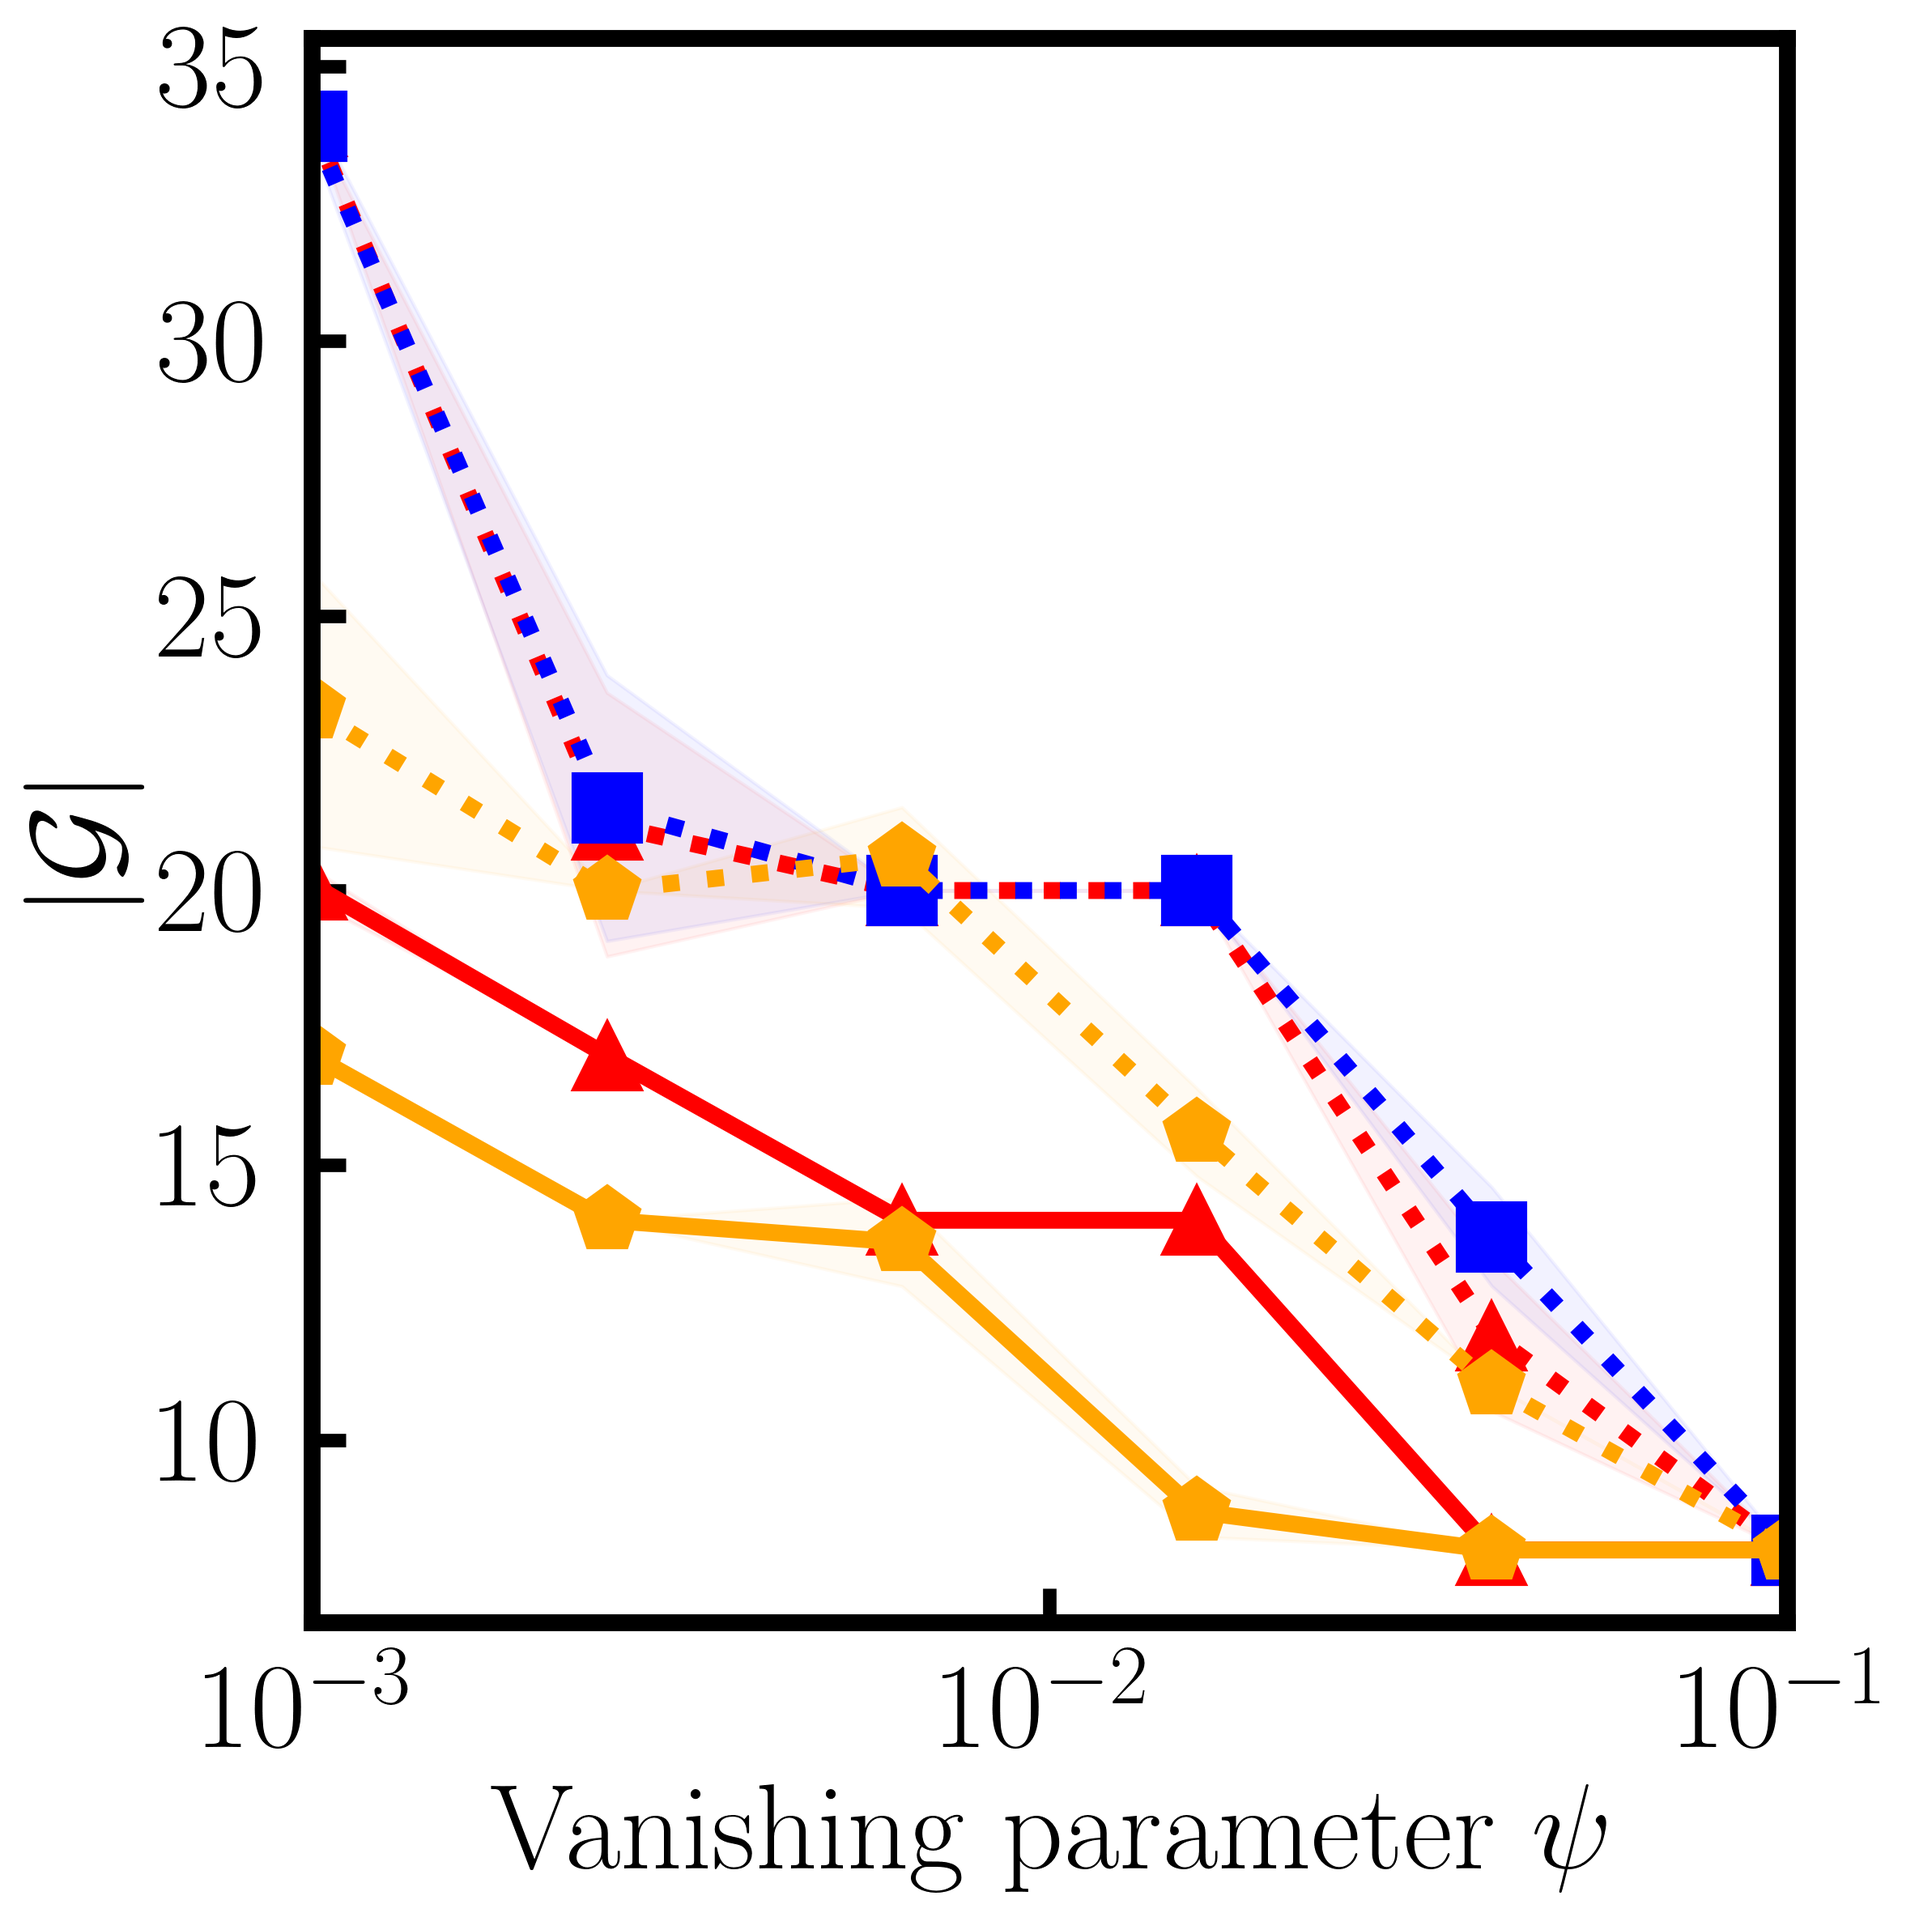
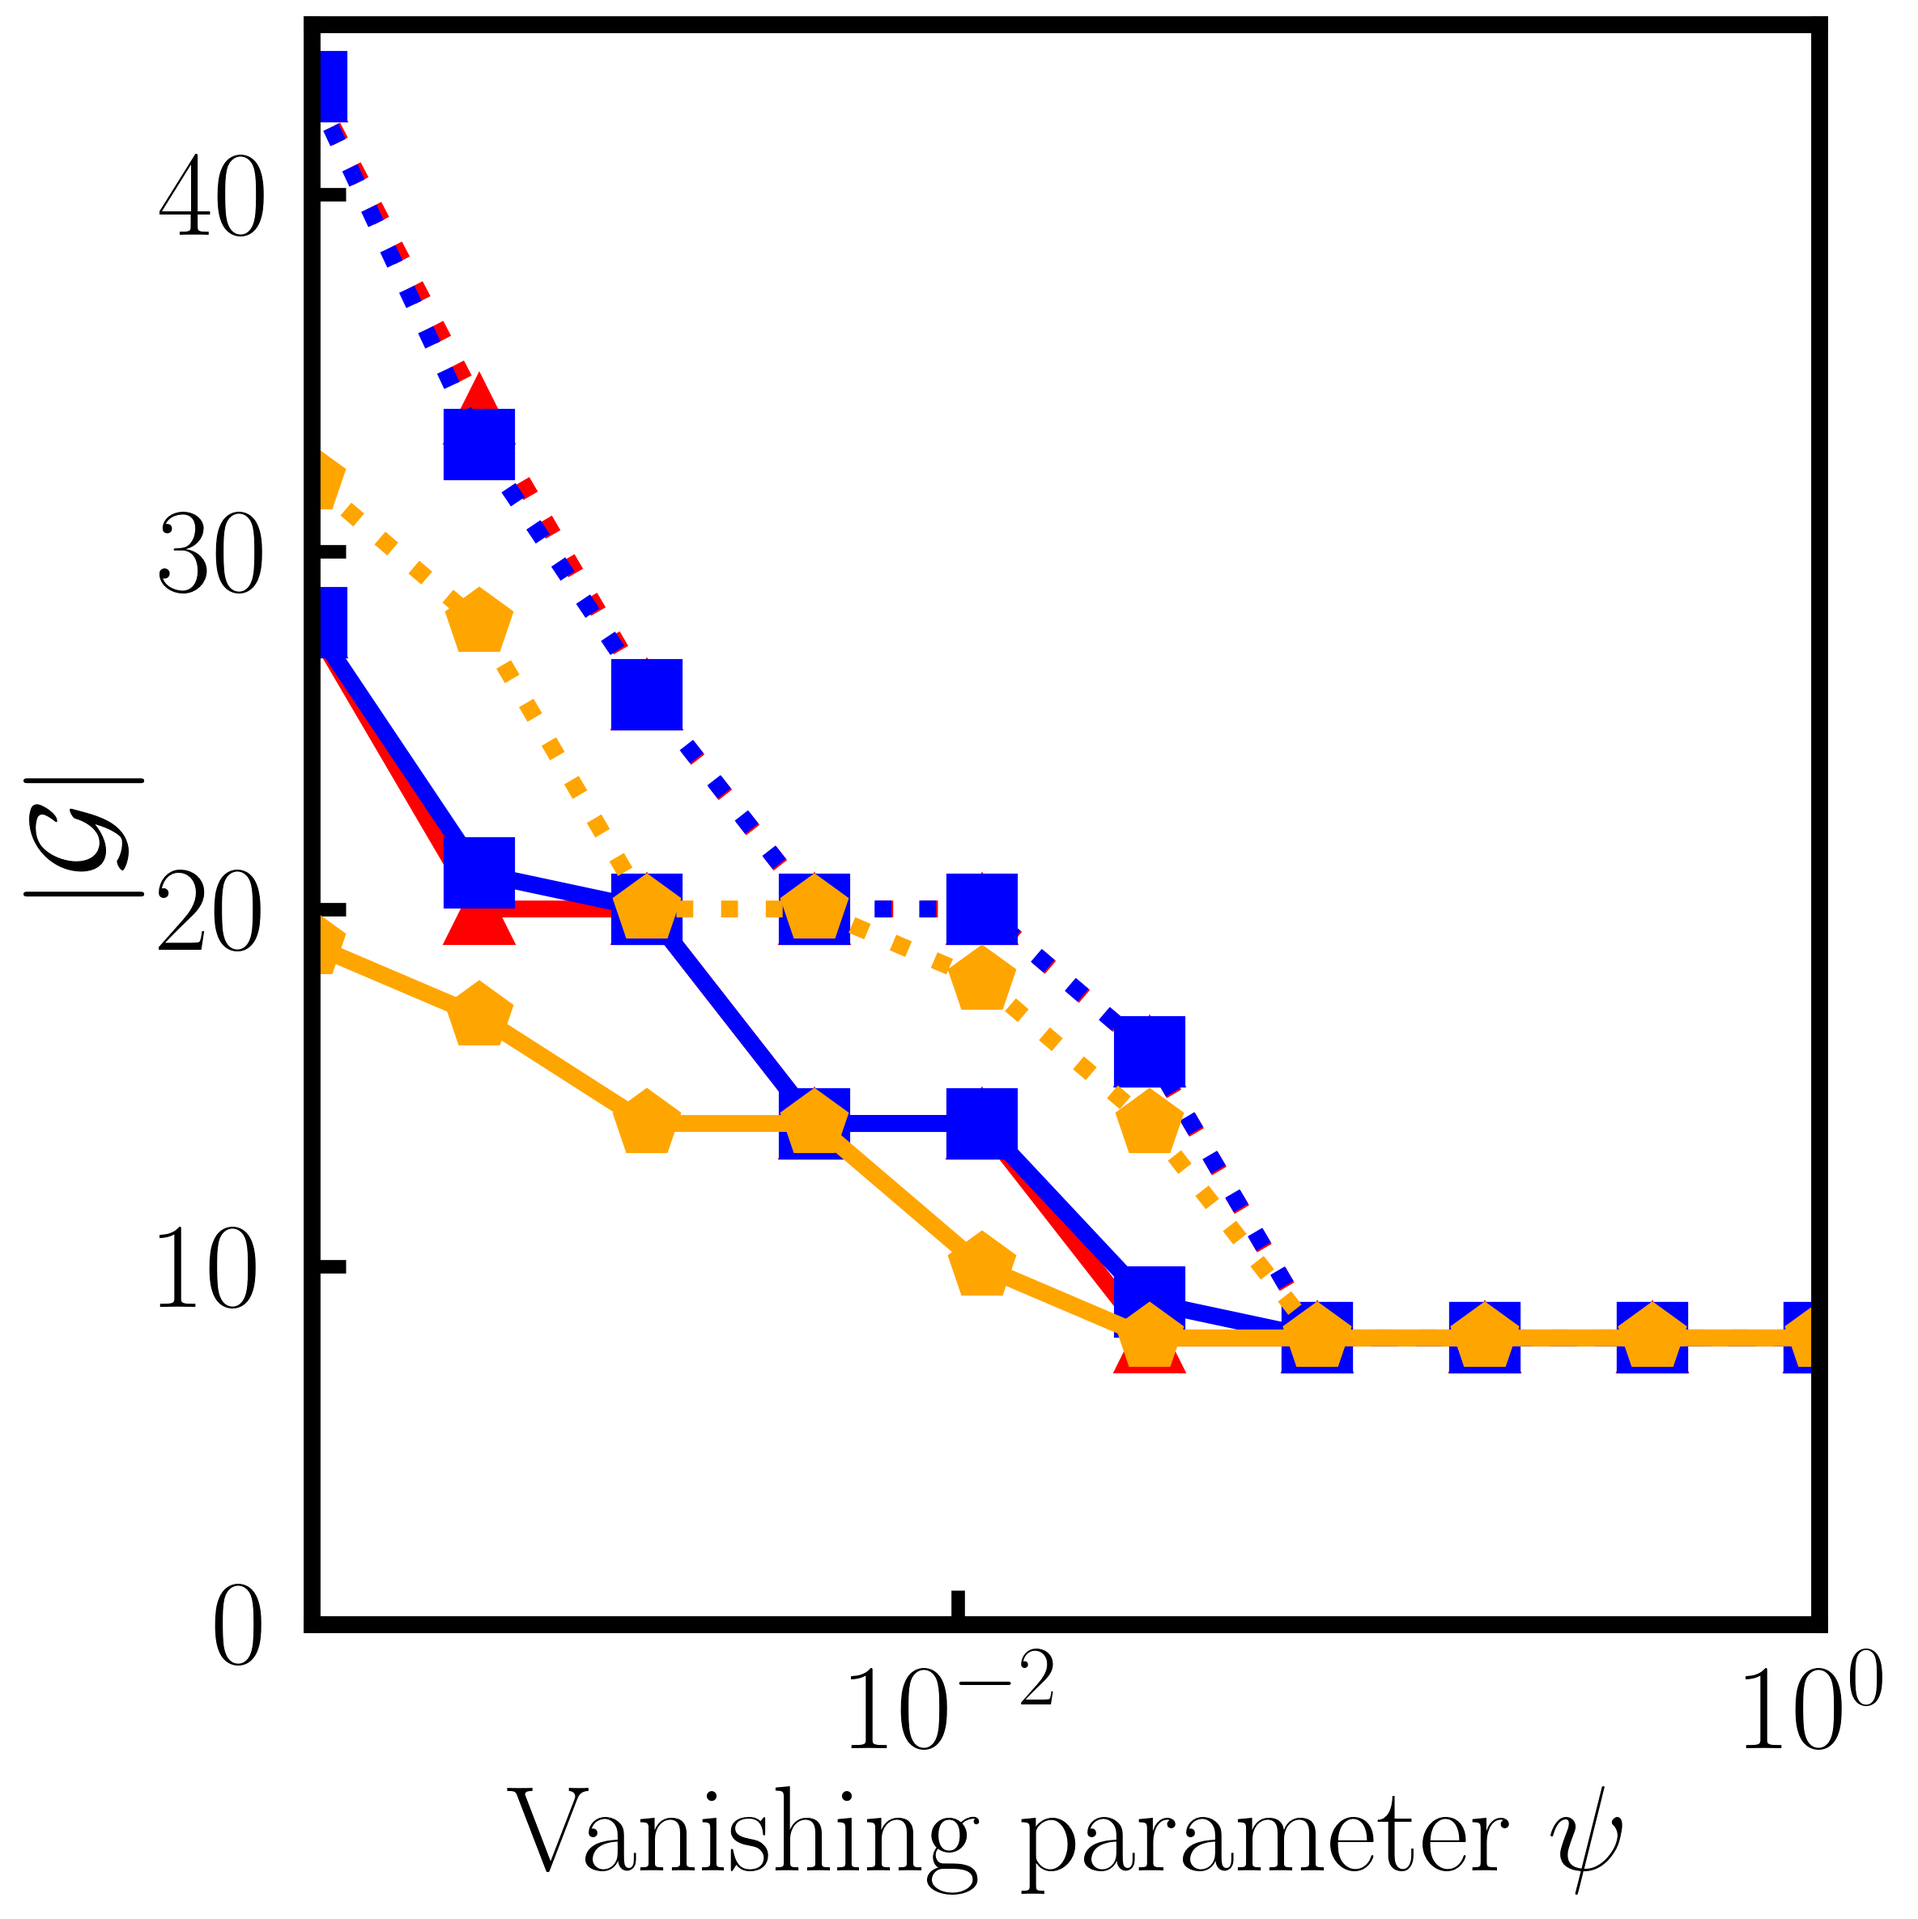
.

diff --git a/src/experiment_setups/experiment_border_types.py b/src/experiment_setups/experiment_border_types.py
@@ -5,13 +5,12 @@ from src.auxiliary_functions.auxiliary_functions import translate_names
 from src.experiment_setups.experiment_setups import fetch_and_prepare_data, ExperimentSetups
 from src.plotting.plotting_functions import plotter
 
-
 def comparison_border_types(title: str, hyperparameters: list, data_set_names, ordering: bool = False):
     """Compares different types of borders."""
     cp.random.seed(n_seed_)
     np.random.seed(n_seed_)
 
-    psis = np.logspace(-0, -3.5, 10).tolist()
+    psis = np.logspace(-0.5, -3.5, 10).tolist()
     psis.reverse()
 
     # collect the names of all algorithms

diff --git a/experiments.py b/experiments.py
@@ -24,7 +24,6 @@ hp_svm = {'algorithm': 'svm', 'C': Cs_, 'avg_degree': degrees_}
 
 # Performance experiment
 hps_gb = [hp_bpcg_wihb_gb, hp_cgavi_ihb_gb, hp_agd_ihb_gb, hp_abm_gb, hp_vca, hp_svm]
-
 # for hp in hps_gb:
 #     perform_experiments(data_sets_performance_gb_, hp, saving=True)
 
